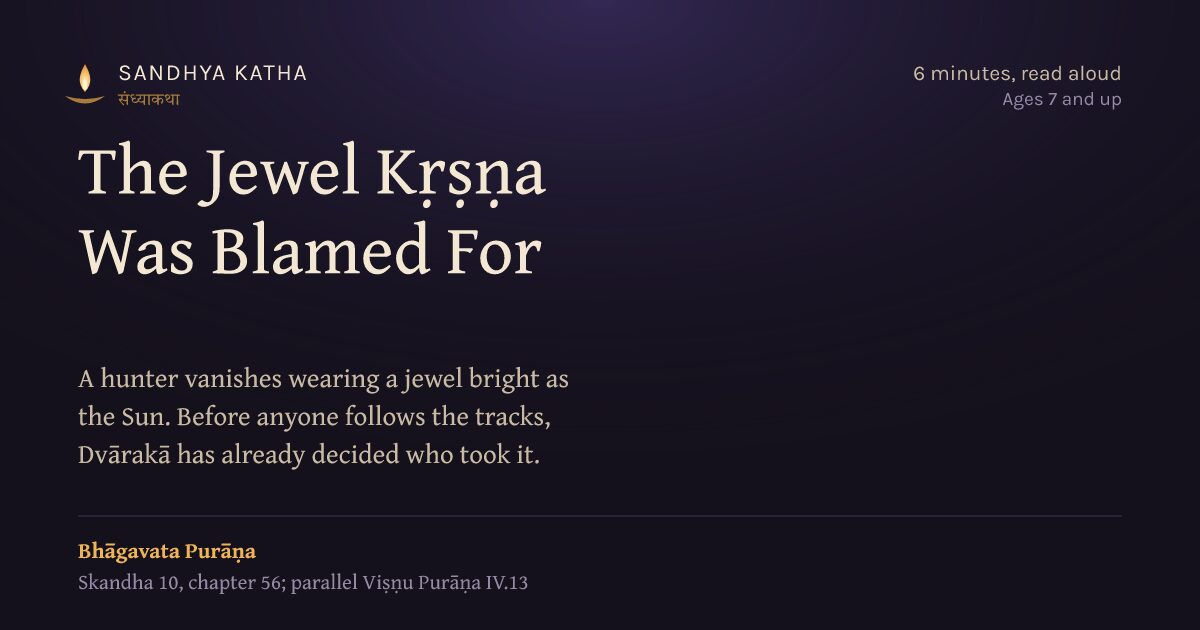
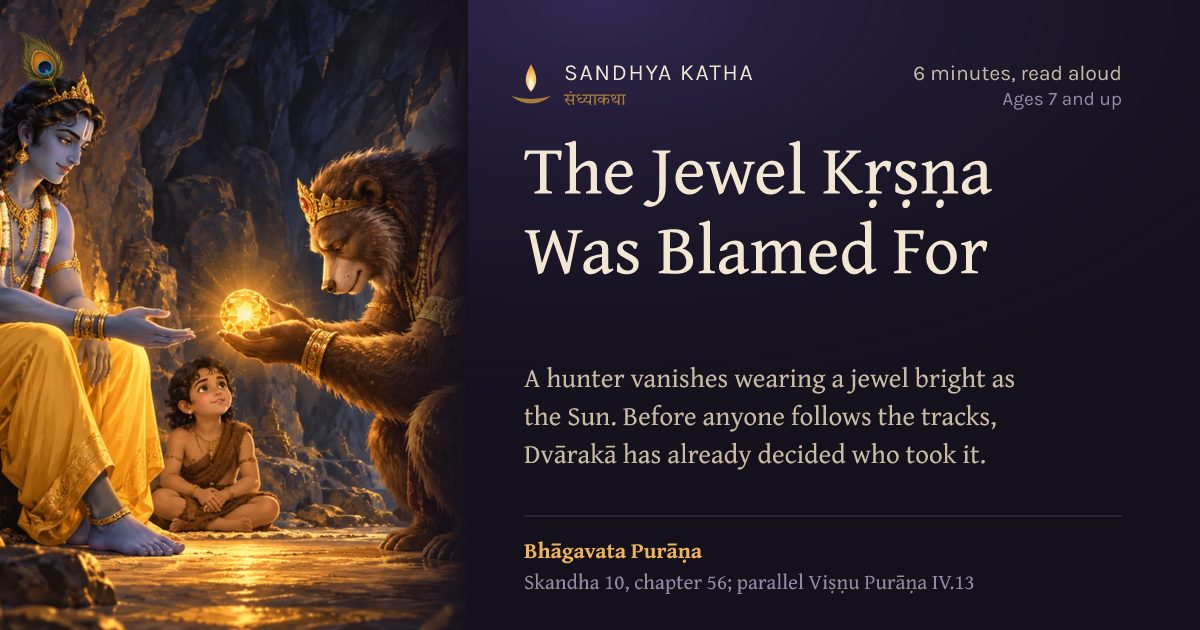
Fix truncated Syamantaka hero and validate published WebP integrity

diff --git a/studio/review/syamantaka-mani/README.md b/studio/review/syamantaka-mani/README.md
@@ -1,7 +1,7 @@
-# Syamantaka Maṇi — locale review package
+# Syamantaka Maṇi — publication and image integrity
 
-English canonical, Hindi and Tamil short/full tellings have been reviewed for content and are presented together in this PR.
+The English, Hindi and Tamil short/full editions were approved and published in PR #24 on 3 October 2026. The approved hero was listed in `content/media.json`, but the checked-in WebP was truncated: its RIFF header declared 33,880 bytes while the file contained 14,931. The publication gate checked the metadata, version and file presence, so it passed a file the browser could not display. The first share card fell back to a text-only design for the same reason.
 
-The Hindi and Tamil files remain outside `content/locales/` until native read-aloud timing is measured and the repository's human language/source review gates are recorded. This avoids inventing `measuredSeconds` merely to satisfy publication parity.
[1 lines of base64/hex data omitted]
 
-After those timings are recorded, promote `hi-IN.json` and `ta-IN.json` into the runtime locale directories, lock them, add them to the public locale shelf, and publish the canonical story in the same release.
+The strict published-hero gate now checks the WebP RIFF size and chunk boundaries, and story rendering omits invalid files with a warning. A regression test verifies that a truncated WebP is rejected even when its filename and header remain intact. The current 72 story hero files pass the structural gate. This check catches truncation and malformed containers; it does not replace visual review or a browser load check.
